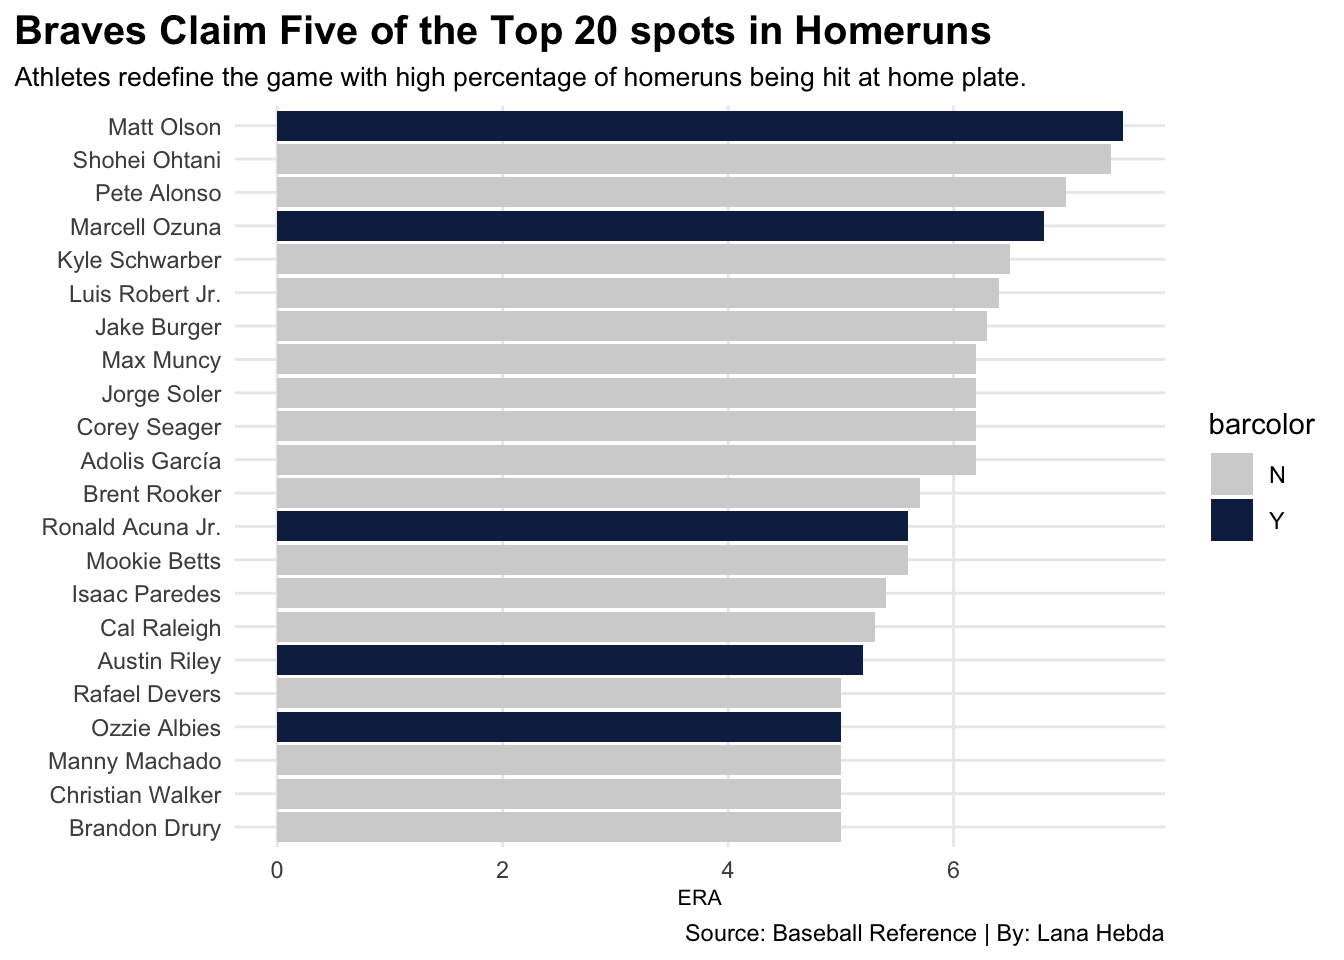
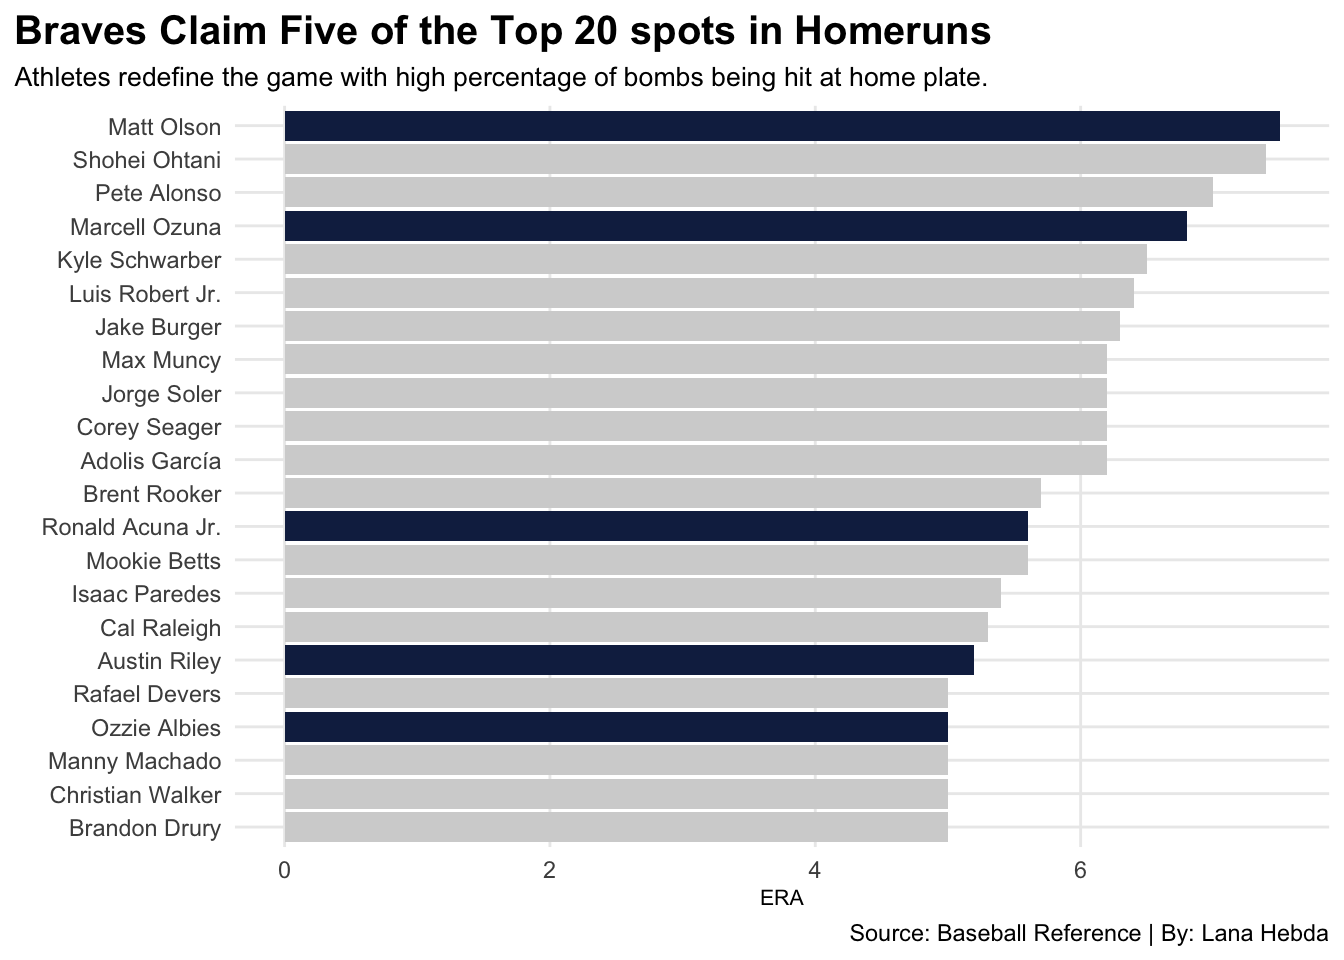
Updates

diff --git a/posts/are-brave-players-keeping-up-with-the-rest-of-mlb-players/index.html b/posts/are-brave-players-keeping-up-with-the-rest-of-mlb-players/index.html
@@ -6,7 +6,8 @@
 
 <meta name="viewport" content="width=device-width, initial-scale=1.0, user-scalable=yes">
 
-<meta name="author" content="THIS IS YOUR NAME">
+<meta name="author" content="Lana Hebda">
+<meta name="dcterms.date" content="2022-12-03">
 
 <title>Lana Hebda’s Site - Are the Braves keeping up with the rest of MLB?</title>
 <style>
@@ -136,11 +137,11 @@ pre > code.sourceCode > span > a:first-child::before { text-decoration: underlin
 <header id="title-block-header" class="quarto-title-block default page-columns page-full">
   <div class="quarto-title-banner page-columns page-full">
     <div class="quarto-title column-body">
-      <h1 class="title">CHANGE THIS TO BE THE TITLE OF YOUR POST</h1>
+      <h1 class="title">Are the Braves keeping up with the rest of MLB?</h1>
                                 <div class="quarto-categories">
-                <div class="quarto-category">lowercaseword</div>
-                <div class="quarto-category">lowercaseword</div>
-                <div class="quarto-category">lowercaseword</div>
+                <div class="quarto-category">Braves</div>
+                <div class="quarto-category">MLB</div>
+                <div class="quarto-category">Baseball</div>
               </div>
                   </div>
   </div>
@@ -151,14 +152,14 @@ pre > code.sourceCode > span > a:first-child::before { text-decoration: underlin
       <div>
       <div class="quarto-title-meta-heading">Author</div>
       <div class="quarto-title-meta-contents">
-               <p>THIS IS YOUR NAME </p>
+               <p>Lana Hebda </p>
             </div>
     </div>
       
       <div>
       <div class="quarto-title-meta-heading">Published</div>
       <div class="quarto-title-meta-contents">
-        <p class="date">Invalid Date</p>
+        <p class="date">December 3, 2022</p>
       </div>
     </div>
     
@@ -201,31 +202,23 @@ pre > code.sourceCode > span > a:first-child::before { text-decoration: underlin
 <span id="cb1-20"><a href="#cb1-20" aria-hidden="true" tabindex="-1"></a>        <span class="at">weight=</span>HR.., <span class="at">fill=</span>barcolor)) <span class="sc">+</span> </span>
 <span id="cb1-21"><a href="#cb1-21" aria-hidden="true" tabindex="-1"></a>  <span class="fu">scale_y_continuous</span>(<span class="at">labels=</span>comma) <span class="sc">+</span> </span>
 <span id="cb1-22"><a href="#cb1-22" aria-hidden="true" tabindex="-1"></a>  <span class="fu">scale_fill_manual</span>(<span class="at">values=</span><span class="fu">c</span>(<span class="st">"lightgrey"</span>, <span class="st">"#13274F"</span>)) <span class="sc">+</span></span>
-<span id="cb1-23"><a href="#cb1-23" aria-hidden="true" tabindex="-1"></a>  <span class="fu">labs</span>(</span>
-<span id="cb1-24"><a href="#cb1-24" aria-hidden="true" tabindex="-1"></a>    <span class="at">title=</span><span class="st">"Something Something"</span>,</span>
+<span id="cb1-23"><a href="#cb1-23" aria-hidden="true" tabindex="-1"></a>  <span class="fu">coord_flip</span>() <span class="sc">+</span></span>
+<span id="cb1-24"><a href="#cb1-24" aria-hidden="true" tabindex="-1"></a><span class="fu">labs</span>(</span>
 <span id="cb1-25"><a href="#cb1-25" aria-hidden="true" tabindex="-1"></a>    <span class="at">x=</span><span class="st">""</span>, </span>
-<span id="cb1-26"><a href="#cb1-26" aria-hidden="true" tabindex="-1"></a>    <span class="at">y=</span><span class="st">"Home Run Percentage"</span>) <span class="sc">+</span> </span>
-<span id="cb1-27"><a href="#cb1-27" aria-hidden="true" tabindex="-1"></a>  <span class="fu">theme_minimal</span>() <span class="sc">+</span></span>
-<span id="cb1-28"><a href="#cb1-28" aria-hidden="true" tabindex="-1"></a>  <span class="fu">theme</span>(</span>
-<span id="cb1-29"><a href="#cb1-29" aria-hidden="true" tabindex="-1"></a>    <span class="at">legend.position =</span> <span class="st">"none"</span></span>
+<span id="cb1-26"><a href="#cb1-26" aria-hidden="true" tabindex="-1"></a>    <span class="at">y=</span><span class="st">"ERA"</span>, </span>
+<span id="cb1-27"><a href="#cb1-27" aria-hidden="true" tabindex="-1"></a>    <span class="at">title=</span><span class="st">"Braves Claim Five of the Top 20 spots in Homeruns"</span>, </span>
+<span id="cb1-28"><a href="#cb1-28" aria-hidden="true" tabindex="-1"></a>    <span class="at">subtitle=</span><span class="st">"Athletes redefine the game with high percentage of bombs being hit at home plate."</span>, </span>
+<span id="cb1-29"><a href="#cb1-29" aria-hidden="true" tabindex="-1"></a>    <span class="at">caption=</span><span class="st">"Source: Baseball Reference | By: Lana Hebda"</span></span>
 <span id="cb1-30"><a href="#cb1-30" aria-hidden="true" tabindex="-1"></a>  ) <span class="sc">+</span></span>
-<span id="cb1-31"><a href="#cb1-31" aria-hidden="true" tabindex="-1"></a>  <span class="fu">coord_flip</span>() <span class="sc">+</span></span>
-<span id="cb1-32"><a href="#cb1-32" aria-hidden="true" tabindex="-1"></a></span>
-<span id="cb1-33"><a href="#cb1-33" aria-hidden="true" tabindex="-1"></a><span class="fu">labs</span>(</span>
-<span id="cb1-34"><a href="#cb1-34" aria-hidden="true" tabindex="-1"></a>    <span class="at">x=</span><span class="st">""</span>, </span>
-<span id="cb1-35"><a href="#cb1-35" aria-hidden="true" tabindex="-1"></a>    <span class="at">y=</span><span class="st">"ERA"</span>, </span>
-<span id="cb1-36"><a href="#cb1-36" aria-hidden="true" tabindex="-1"></a>    <span class="at">title=</span><span class="st">"Braves Claim Five of the Top 20 spots in Homeruns"</span>, </span>
-<span id="cb1-37"><a href="#cb1-37" aria-hidden="true" tabindex="-1"></a>    <span class="at">subtitle=</span><span class="st">"Athletes redefine the game with high percentage of homeruns being hit at home plate."</span>, </span>
-<span id="cb1-38"><a href="#cb1-38" aria-hidden="true" tabindex="-1"></a>    <span class="at">caption=</span><span class="st">"Source: Baseball Reference | By: Lana Hebda"</span></span>
-<span id="cb1-39"><a href="#cb1-39" aria-hidden="true" tabindex="-1"></a>  ) <span class="sc">+</span></span>
-<span id="cb1-40"><a href="#cb1-40" aria-hidden="true" tabindex="-1"></a>  <span class="fu">theme_minimal</span>() <span class="sc">+</span> </span>
-<span id="cb1-41"><a href="#cb1-41" aria-hidden="true" tabindex="-1"></a>  <span class="fu">theme</span>(</span>
-<span id="cb1-42"><a href="#cb1-42" aria-hidden="true" tabindex="-1"></a>    <span class="at">plot.title =</span> <span class="fu">element_text</span>(<span class="at">size =</span> <span class="dv">15</span>, <span class="at">face =</span> <span class="st">"bold"</span>),</span>
-<span id="cb1-43"><a href="#cb1-43" aria-hidden="true" tabindex="-1"></a>    <span class="at">axis.title =</span> <span class="fu">element_text</span>(<span class="at">size =</span> <span class="dv">8</span>), </span>
-<span id="cb1-44"><a href="#cb1-44" aria-hidden="true" tabindex="-1"></a>    <span class="at">plot.subtitle =</span> <span class="fu">element_text</span>(<span class="at">size=</span><span class="dv">10</span>), </span>
-<span id="cb1-45"><a href="#cb1-45" aria-hidden="true" tabindex="-1"></a>    <span class="at">panel.grid.minor =</span> <span class="fu">element_blank</span>(),</span>
-<span id="cb1-46"><a href="#cb1-46" aria-hidden="true" tabindex="-1"></a>    <span class="at">plot.title.position =</span> <span class="st">"plot"</span></span>
-<span id="cb1-47"><a href="#cb1-47" aria-hidden="true" tabindex="-1"></a>    ) </span></code><button title="Copy to Clipboard" class="code-copy-button"><i class="bi"></i></button></pre></div>
+<span id="cb1-31"><a href="#cb1-31" aria-hidden="true" tabindex="-1"></a>  <span class="fu">theme_minimal</span>() <span class="sc">+</span> </span>
+<span id="cb1-32"><a href="#cb1-32" aria-hidden="true" tabindex="-1"></a>  <span class="fu">theme</span>(</span>
+<span id="cb1-33"><a href="#cb1-33" aria-hidden="true" tabindex="-1"></a>    <span class="at">plot.title =</span> <span class="fu">element_text</span>(<span class="at">size =</span> <span class="dv">15</span>, <span class="at">face =</span> <span class="st">"bold"</span>),</span>
+<span id="cb1-34"><a href="#cb1-34" aria-hidden="true" tabindex="-1"></a>    <span class="at">axis.title =</span> <span class="fu">element_text</span>(<span class="at">size =</span> <span class="dv">8</span>), </span>
+<span id="cb1-35"><a href="#cb1-35" aria-hidden="true" tabindex="-1"></a>    <span class="at">plot.subtitle =</span> <span class="fu">element_text</span>(<span class="at">size=</span><span class="dv">10</span>), </span>
+<span id="cb1-36"><a href="#cb1-36" aria-hidden="true" tabindex="-1"></a>    <span class="at">panel.grid.minor =</span> <span class="fu">element_blank</span>(),</span>
+<span id="cb1-37"><a href="#cb1-37" aria-hidden="true" tabindex="-1"></a>    <span class="at">plot.title.position =</span> <span class="st">"plot"</span>,</span>
+<span id="cb1-38"><a href="#cb1-38" aria-hidden="true" tabindex="-1"></a>    <span class="at">legend.position =</span> <span class="st">"none"</span></span>
+<span id="cb1-39"><a href="#cb1-39" aria-hidden="true" tabindex="-1"></a>    ) </span></code><button title="Copy to Clipboard" class="code-copy-button"><i class="bi"></i></button></pre></div>
 </details>
 <div class="cell-output-display">
 <p><img src="index_files/figure-html/unnamed-chunk-1-1.png" class="img-fluid" width="672"></p>

diff --git a/index.html b/index.html
@@ -244,7 +244,7 @@ Lana Hebda
 </a>
 </div>
 </div>
-<div class="quarto-post image-right" data-index="2" data-categories="Braves,MLB,Baseball" data-listing-date-sort="1670047200000" data-listing-file-modified-sort="1701443478057" data-listing-date-modified-sort="NaN" data-listing-reading-time-sort="4">
+<div class="quarto-post image-right" data-index="2" data-categories="Braves,MLB,Baseball" data-listing-date-sort="1670047200000" data-listing-file-modified-sort="1701443919137" data-listing-date-modified-sort="NaN" data-listing-reading-time-sort="4">
 <div class="thumbnail">
 <p><a href="./posts/are-brave-players-keeping-up-with-the-rest-of-mlb-players/index.html"> <img src="./posts/are-brave-players-keeping-up-with-the-rest-of-mlb-players/image.png" class="thumbnail-image"> </a></p>
 </div>
